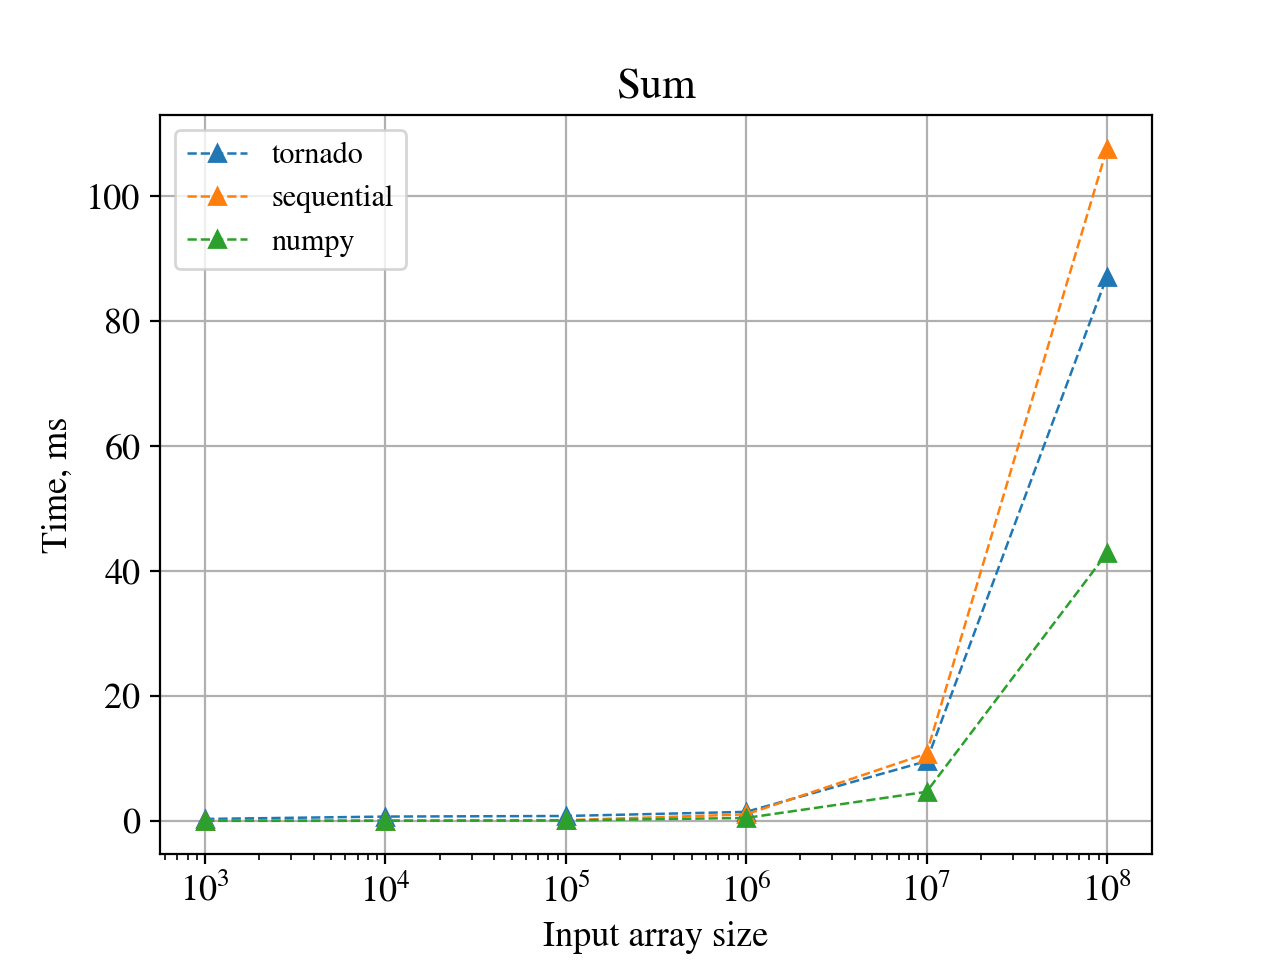
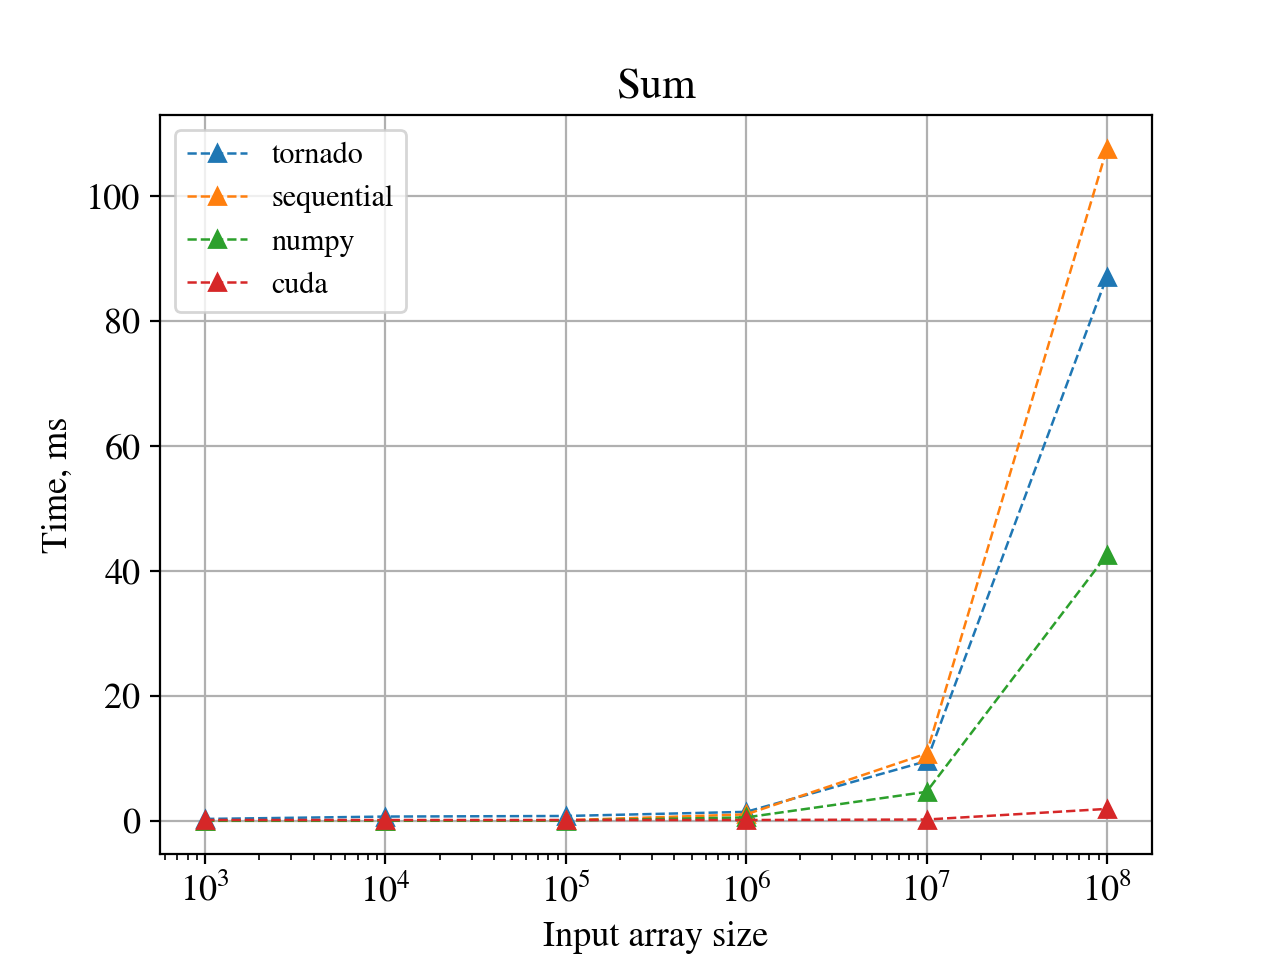
add cuda

diff --git a/perf_plot.py b/perf_plot.py
@@ -40,6 +40,17 @@ def plot_sum():
 		87032585,
 	]) * 10**-6
 
+	cuda = np.array([
+		0.00001,
+		0.00001,
+		0.00013,
+		0.00013,
+		0.00013,
+		0.00013,
+		0.00021,
+		0.00191
+	]) * 10**3
+
 	# Numpy test
 	with_numpy = []
 	for i in N:
@@ -55,11 +66,13 @@ def plot_sum():
 	with_gpu = with_gpu[start_index:]
 	without_gpu = without_gpu[start_index:]
 	with_numpy = with_numpy[start_index:]
+	cuda = cuda[start_index:]
 
 	plt.title("Sum")
 	plt.plot(N, with_gpu, label="tornado", linestyle="--", marker="^", linewidth=0.9)
 	plt.plot(N, without_gpu, label="sequential", linestyle="--", marker="^", linewidth=0.9)
 	plt.plot(N, with_numpy, label="numpy", linestyle="--", marker="^", linewidth=0.9)
+	plt.plot(N, cuda, label="cuda", linestyle="--", marker="^", linewidth=0.9)
 	plt.legend()
 	plt.grid(True)
 	plt.ylabel("Time, ms")
